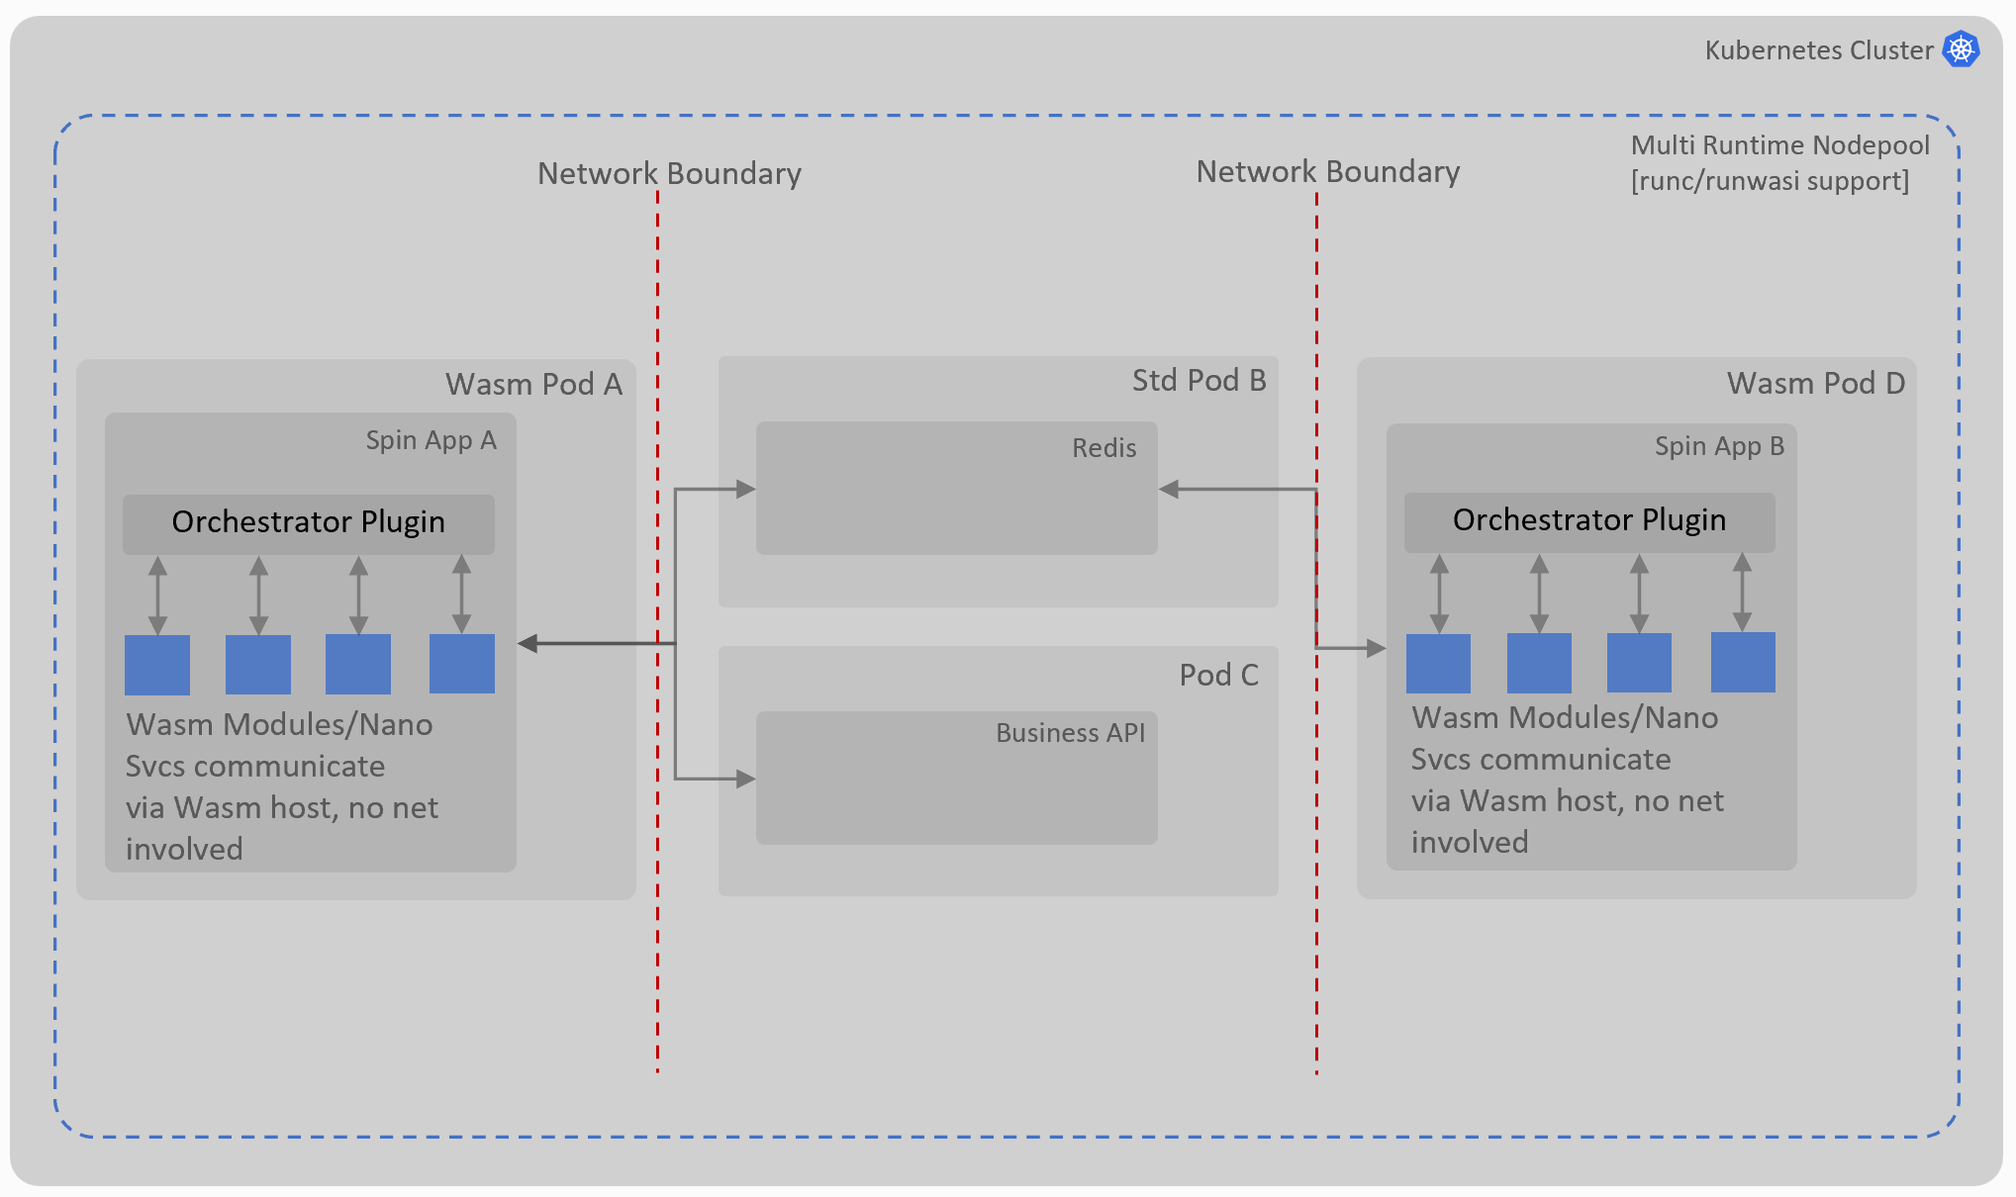
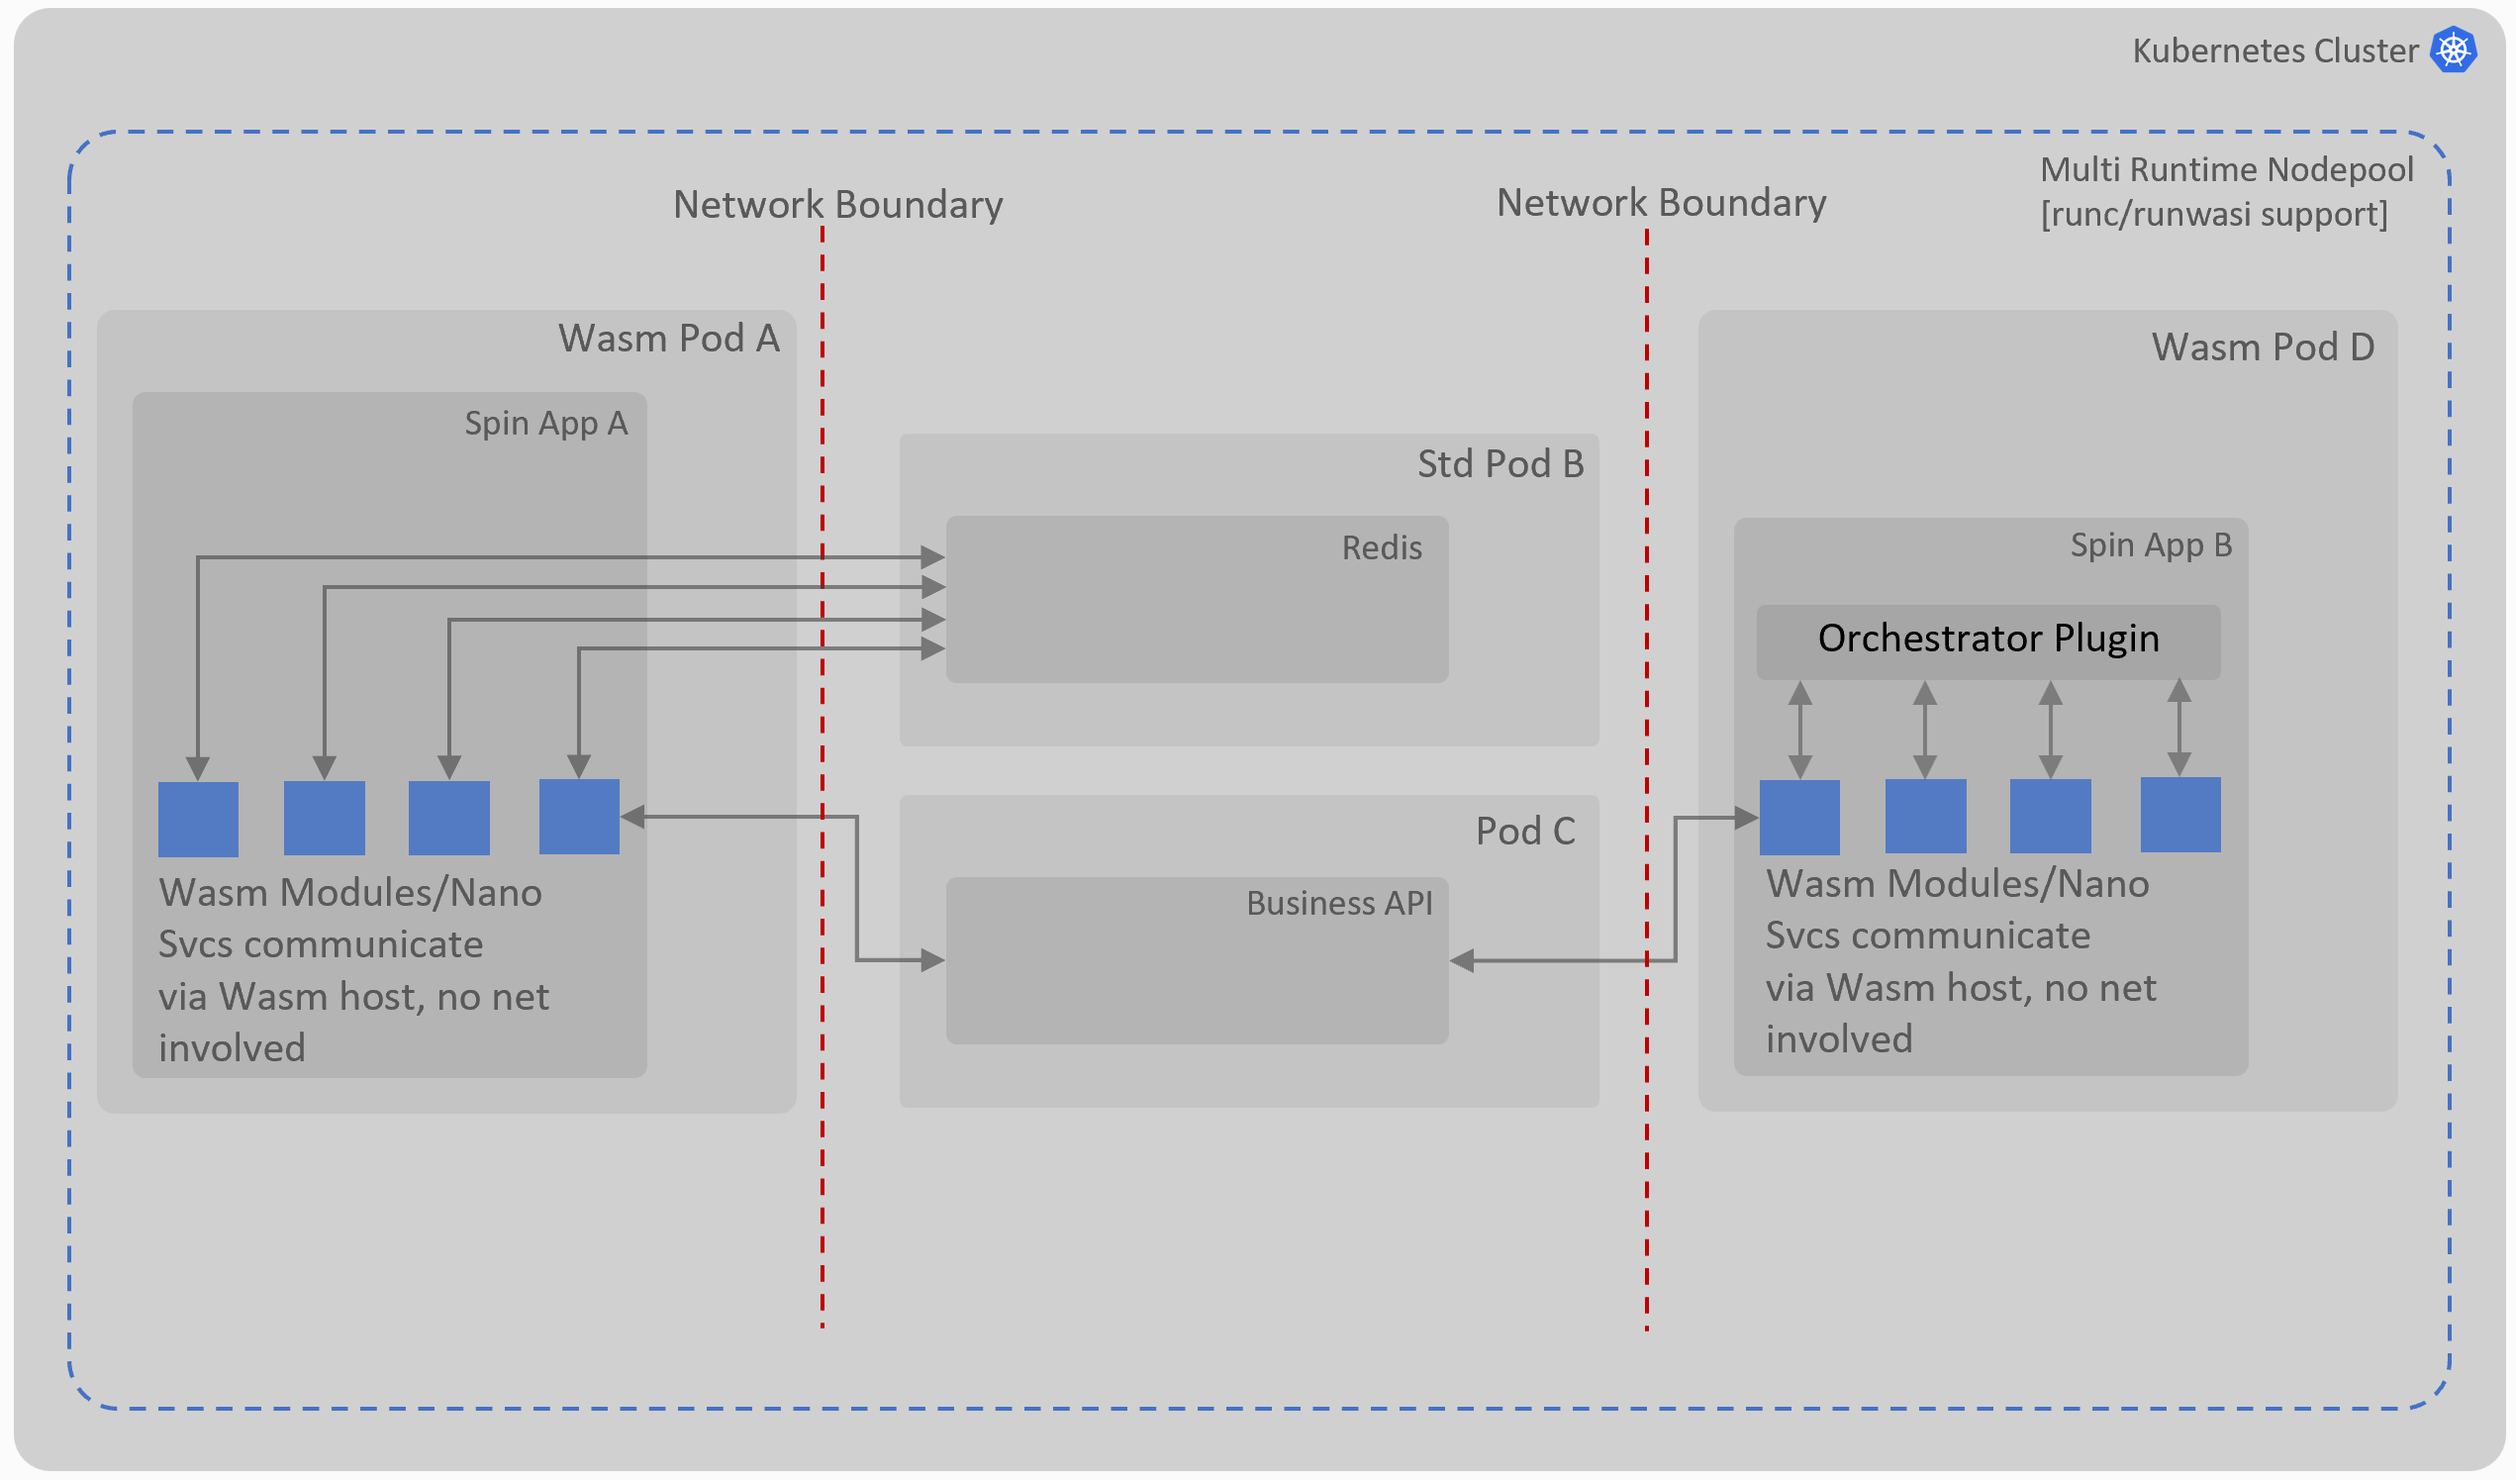
Updated approach diagram

diff --git a/README.md b/README.md
@@ -23,7 +23,12 @@ The approach is straightforward, and described by the following steps:
 3. Deploy Spin app to this node pool
 4. Deploy standard container apps to this node pool i.e. Redis in this instance
 
-This will run the standard Spin application which may contain multiple wasm components/modules as part of it. These components communicate with each other using Spin SDKs (for KV, Redis or Http). This approach allows decoupling these components via messaging (Redis) or contracts (Http REST) and this is great. On the flip side though, by introducing external means to communicate between the components, additional overheads become inevitable.
+This will run the standard Spin application which may contain multiple wasm components/modules as part of it. These components communicate with each other using Spin SDKs (for KV, Redis or Http). This approach allows decoupling these components via messaging (Redis) or contracts (Http REST) and this is great. On the flip side though, by introducing external means to communicate between the components, additional overheads become inevitable. 
+
+Below diagram compares and contrast the differences between the use of external services for inter module/component communication and an approach where we avoid this. On left, Pod A has four wasm components/modules, communication between these components occur via external service (Redis in this case). Should we not need to expose these events to external (to Spin app) entities we really do not need to cross the network boundary here.
+Now compare this with Pod C, where inter module/component communication occur via a Spin plugin, the event/messages stay within the same Spin app and no network boundary is crossed. When event/messages do need to be exposed to external world they can certainly do that. This approach is defined in [Reduced Network Hop](#reduced-network-hops) section below.
+
+![alt text](images/mixed_workloads.png "Mixed Workloads Approach")
 
 Drawing some parallels here from code level and service level design patterns, intra Spin orchestration of modules can be considered as nano services which do not need to cross the boundary of network but still need to be composed together to form a business logic. By not involving network, we avoid the complex compensation logic (idempotency, circuit-breaker) in absence of transactions and serialisation-deserialization of messages. WIT contracts defined in the custom Plugin allows a contract driven development of wasm modules/components in a polyglot manner.
 
@@ -33,4 +38,8 @@ The next section below addresses this aspect of the solution in Spin.
 
 This approach enables intra Spin (within the same Spin instance) module/component orchestration using WIT contracts at the host level. It makes use of the plugin model extensibility Spin provides to build a domain specific orchestrator (a custom plugin). Domain specific plugin references a set of WIT contracts for multiple Wasm modules/components and invoke functions on wasm modules/components as per domain specific logic. These composed services may eventually then interact with other services (could be Spin based or otherwise) on the network using standard Spin SDKs e.g. Http.
 
-![alt text](images/mixed_workloads.png "Mixed Workloads Approach")
+## Deployment
+
+[Steps to deploy solution with reduced network hops in Azure]
+
+1. Ensure Docker Desktop is installed and setup with ["Use containerd for pulling and storing images"](https://docs.docker.com/desktop/containerd/) feature.
